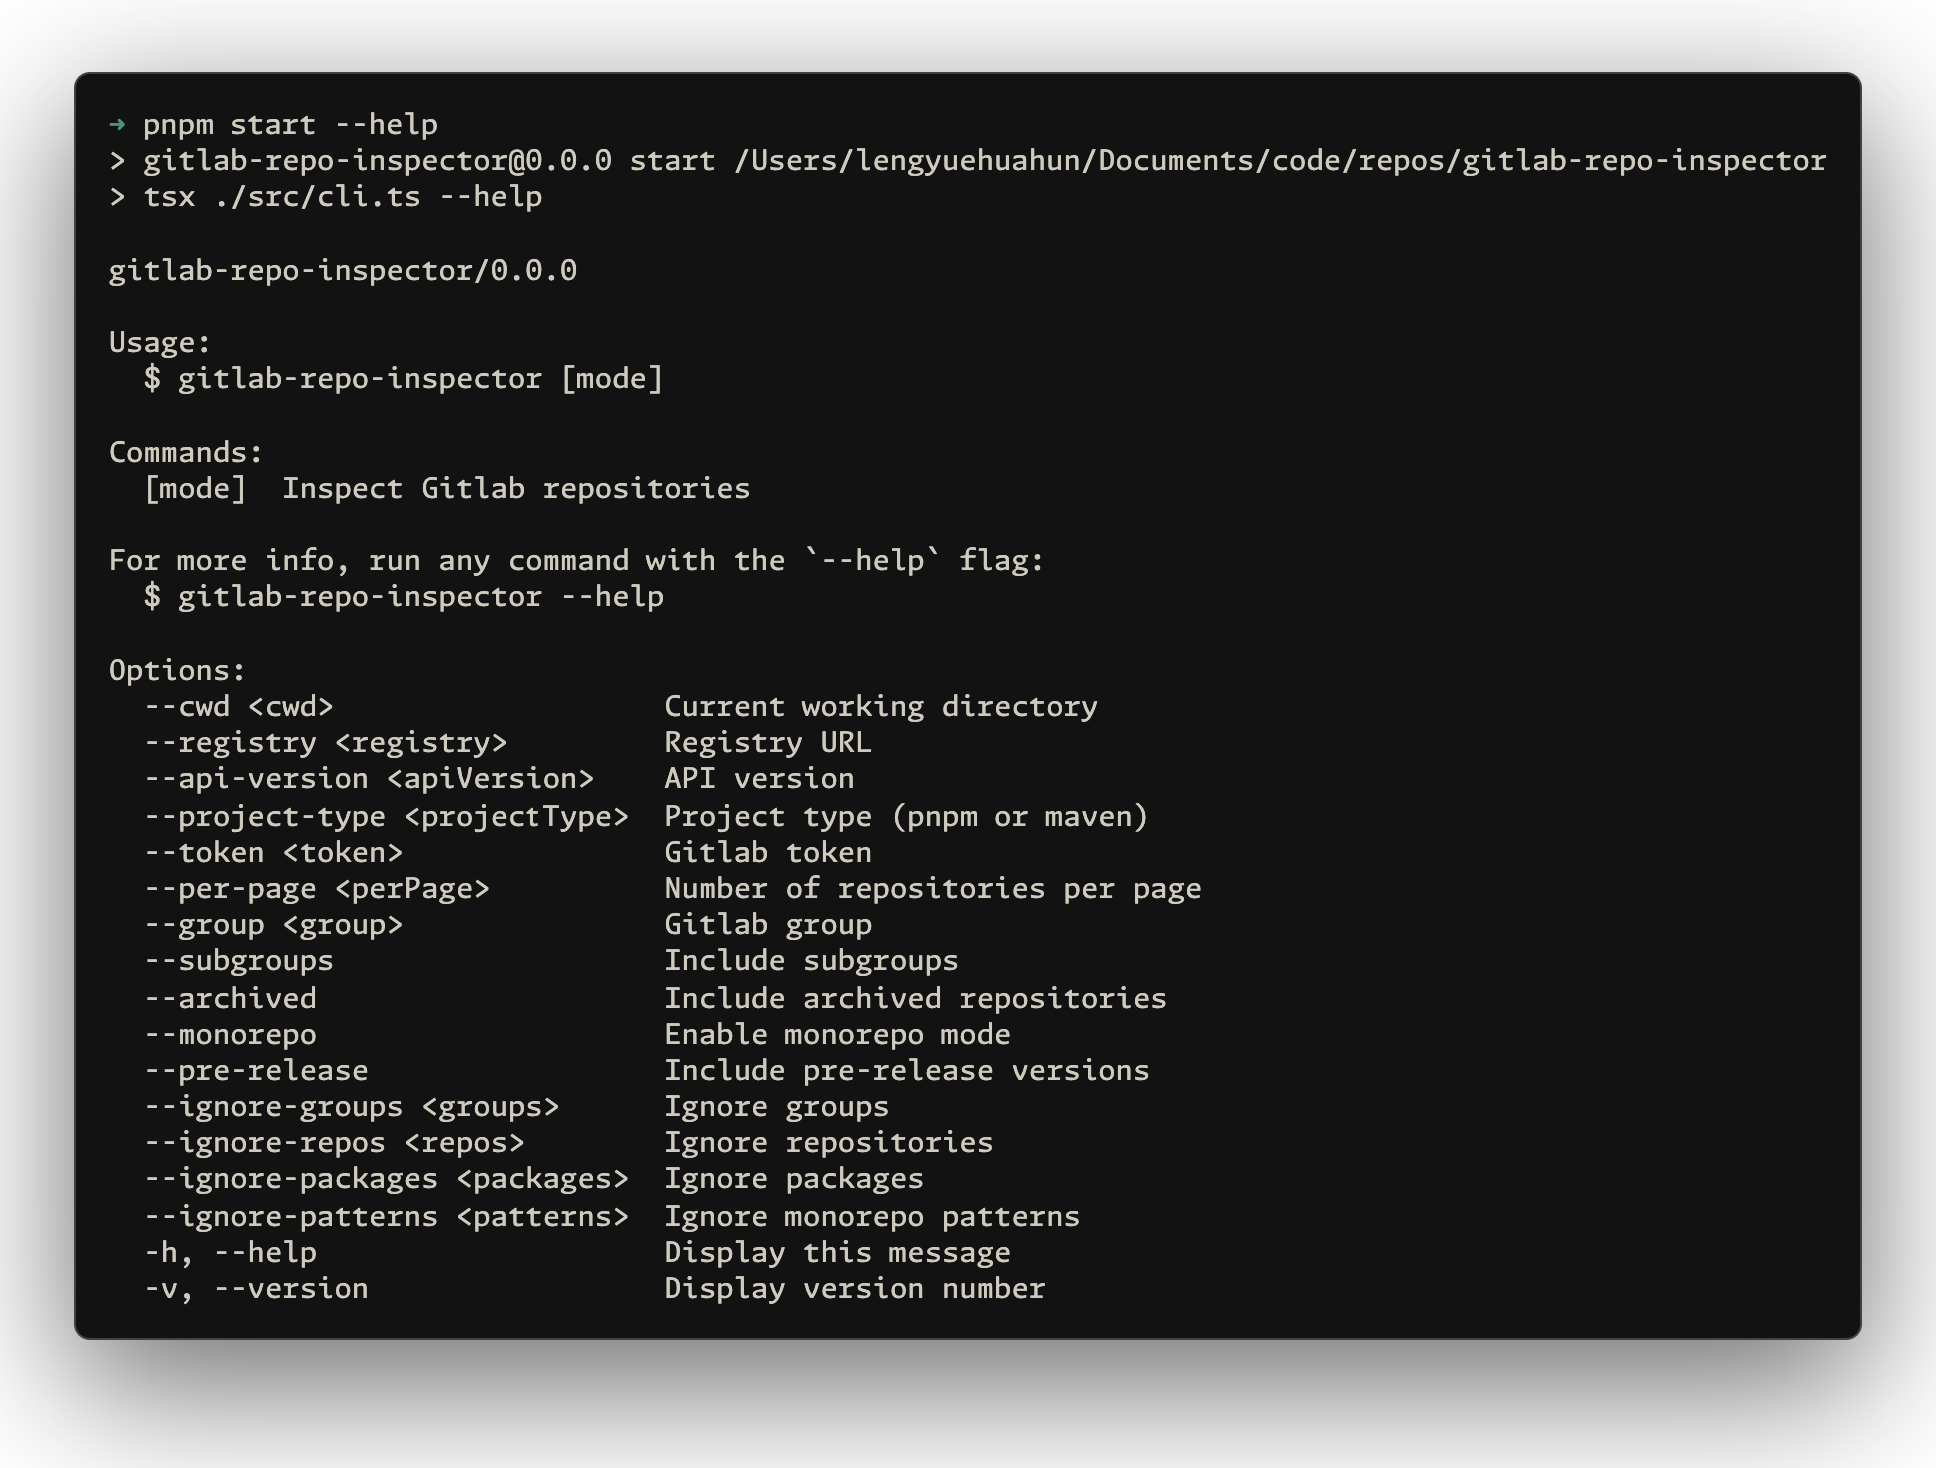
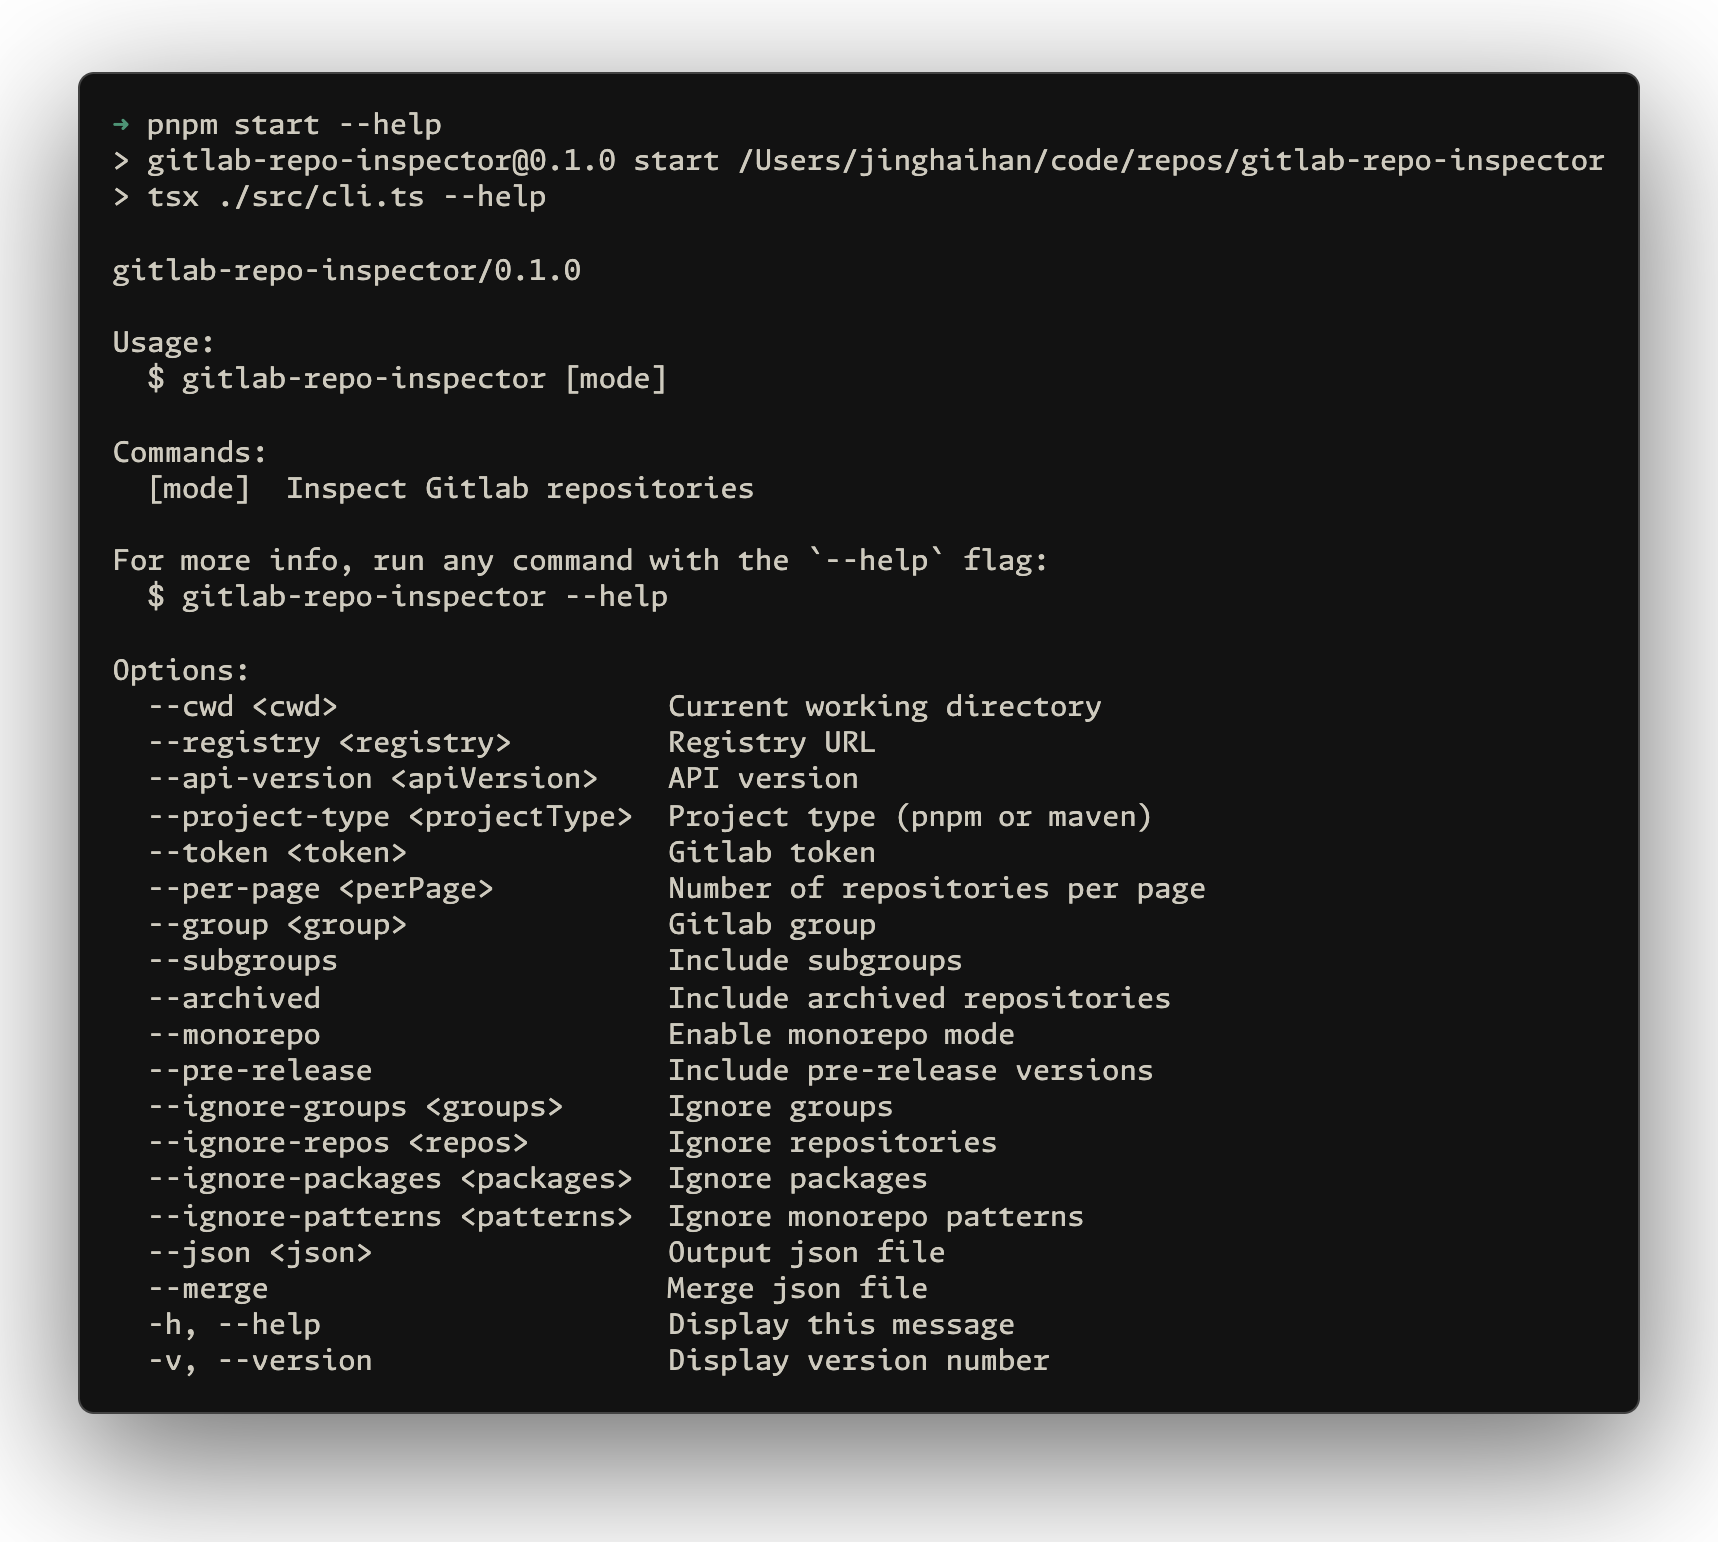
feat: project type inference

Changed region(s): [[0.0308, 0.0307, 0.9872, 0.9196], [0.5553, 0.3372, 0.5861, 0.3678]]

diff --git a/src/config.ts b/src/config.ts
@@ -13,7 +13,7 @@ function normalizeConfig(options: Partial<CommandOptions>) {
   return options
 }
 
-export async function resolveConfig(options: Partial<CommandOptions>): Promise<ConfigOptions> {
+export async function resolveCommonConfig(options: Partial<CommandOptions>): Promise<ConfigOptions> {
   const defaults = structuredClone(DEFAULT_CONFIG_OPTIONS)
   const config = normalizeConfig(options)
 
@@ -28,27 +28,7 @@ export async function resolveConfig(options: Partial<CommandOptions>): Promise<C
   const configOptions = generator.sources.length ? normalizeConfig(generator.config) : {}
   const merged = { ...defaults, ...configOptions, ...config }
 
-  if (!merged.token) {
-    const token = await p.text({
-      message: 'Enter your Gitlab token:',
-    })
-    if (p.isCancel(token) || !token) {
-      p.outro(c.red('Gitlab token is required'))
-      process.exit(1)
-    }
-    merged.token = token
-  }
-
-  if (!merged.group) {
-    const group = await p.text({
-      message: 'Enter your Gitlab group:',
-    })
-    if (p.isCancel(group) || !group) {
-      p.outro(c.red('Gitlab group is required'))
-      process.exit(1)
-    }
-    merged.group = group
-  }
+  merged.cwd = merged.cwd || process.cwd()
 
   // default to manifest mode
   if (!merged.mode) {
@@ -63,5 +43,37 @@ export async function resolveConfig(options: Partial<CommandOptions>): Promise<C
   if (typeof merged.ignorePackages === 'string')
     merged.ignorePackages = [merged.ignorePackages]
 
+  // normalize json file
+  if (!merged.json.endsWith('.json'))
+    merged.json = `${merged.json}.json`
+
   return merged as unknown as ConfigOptions
+}
+
+export async function resolveConfig(options: Partial<CommandOptions>): Promise<ConfigOptions> {
+  const commonConfig = await resolveCommonConfig(options)
+
+  if (!commonConfig.token) {
+    const token = await p.text({
+      message: 'Enter your Gitlab token:',
+    })
+    if (p.isCancel(token) || !token) {
+      p.outro(c.red('Gitlab token is required'))
+      process.exit(1)
+    }
+    commonConfig.token = token
+  }
+
+  if (!commonConfig.group) {
+    const group = await p.text({
+      message: 'Enter your Gitlab group:',
+    })
+    if (p.isCancel(group) || !group) {
+      p.outro(c.red('Gitlab group is required'))
+      process.exit(1)
+    }
+    commonConfig.group = group
+  }
+
+  return commonConfig as unknown as ConfigOptions
 }

diff --git a/src/inspector/inference.ts b/src/inspector/inference.ts
@@ -1,0 +1,43 @@
+import type { ConfigOptions, GitlabRepo, ProjectType, Spinner } from '../types'
+import c from 'ansis'
+import { getRepoTree } from '../gitlab'
+
+export async function inferenceProjectType(spinner: Spinner, options: ConfigOptions, repo: Pick<GitlabRepo, 'id' | 'name'>, tagOrBranch?: string): Promise<ProjectType | undefined> {
+  spinner.message(`Inferring project type for ${c.yellow(repo.name)}...`)
+  if (await isPnpmProject(options, repo, tagOrBranch))
+    return 'pnpm'
+  if (await isMavenProject(options, repo, tagOrBranch))
+    return 'maven'
+  if (await isNpmProject(options, repo, tagOrBranch))
+    return 'npm'
+  if (await isYarnProject(options, repo, tagOrBranch))
+    return 'yarn'
+}
+
+export async function isNpmProject(options: ConfigOptions, repo: Pick<GitlabRepo, 'id'>, tagOrBranch?: string) {
+  const tree = await getRepoTree(options, repo, '', tagOrBranch)
+  if (!tree)
+    return false
+  return !!tree.find(i => i.path === 'package-lock.json')
+}
+
+export async function isYarnProject(options: ConfigOptions, repo: Pick<GitlabRepo, 'id'>, tagOrBranch?: string) {
+  const tree = await getRepoTree(options, repo, '', tagOrBranch)
+  if (!tree)
+    return false
+  return !!tree.find(i => i.path === 'yarn.lock')
+}
+
+export async function isPnpmProject(options: ConfigOptions, repo: Pick<GitlabRepo, 'id'>, tagOrBranch?: string) {
+  const tree = await getRepoTree(options, repo, '', tagOrBranch)
+  if (!tree)
+    return false
+  return !!tree.find(i => i.path === 'pnpm-lock.yaml' || i.path === 'pnpm-workspace.yaml')
+}
+
+export async function isMavenProject(options: ConfigOptions, repo: Pick<GitlabRepo, 'id'>, tagOrBranch?: string) {
+  const tree = await getRepoTree(options, repo, '', tagOrBranch)
+  if (!tree)
+    return false
+  return !!tree.find(i => i.path === 'pom.xml')
+}

diff --git a/src/cli.ts b/src/cli.ts
@@ -1,10 +1,12 @@
 import type { CAC } from 'cac'
 import type { CommandOptions, RangeMode } from './types'
-import { writeFile } from 'node:fs/promises'
+import { existsSync } from 'node:fs'
+import { readFile, writeFile } from 'node:fs/promises'
 import process from 'node:process'
 import * as p from '@clack/prompts'
 import c from 'ansis'
 import { cac } from 'cac'
+import { join } from 'pathe'
 import { name, version } from '../package.json'
 import { resolveConfig } from './config'
 import { MODE_CHOICES } from './constants'
@@ -30,6 +32,8 @@ try {
     .option('--ignore-repos <repos>', 'Ignore repositories')
     .option('--ignore-packages <packages>', 'Ignore packages')
     .option('--ignore-patterns <patterns>', 'Ignore monorepo patterns')
+    .option('--json <json>', 'Output json file')
+    .option('--merge', 'Merge json file')
     .action(async (mode: RangeMode, options: CommandOptions) => {
       if (mode) {
         if (!MODE_CHOICES.includes(mode)) {
@@ -43,7 +47,17 @@ try {
       const config = await resolveConfig(options)
       const inspector = inspectors[config.mode]
       const result = await inspector(config)
-      await writeFile('gitlab-repo-inspector.json', JSON.stringify(result, null, 2))
+
+      const path = join(config.cwd, config.json)
+      if (config.merge) {
+        if (existsSync(path)) {
+          const content = await readFile(path, 'utf-8')
+          const data = JSON.parse(content)
+          result.push(...data)
+        }
+      }
+
+      await writeFile(path, JSON.stringify(result, null, 2))
       p.outro(`${c.green`Inspect completed, saved to ${c.yellow`gitlab-repo-inspector.json`}`}`)
     })
 

diff --git a/src/inspector/index.ts b/src/inspector/index.ts
@@ -4,6 +4,7 @@ import * as p from '@clack/prompts'
 import c from 'ansis'
 import { getRepos, getRepoTags } from '../gitlab'
 import { getLatestTag, normalizeRepo, normalizeVersion } from '../utils'
+import { inferenceProjectType } from './inference'
 import { inspectMavenMonorepo } from './maven'
 import { inspectPnpmMonorepo } from './pnpm'
 
@@ -53,12 +54,14 @@ export async function inspectRepo(options: ConfigOptions, repo: GitlabRepo) {
   spinner.start(`Inspecting ${c.yellow(repo.name)}...`)
 
   const latestTag = await inspectRepoTag(options, repo)
-  const setRepo = () => {
+  const setRepo = async () => {
+    const projectType = await inferenceProjectType(spinner, options, repo, latestTag?.name)
     data.push({
       name: repo.name,
       repo: normalizeRepo(repo.web_url),
       repoId: repo.id,
       webUrl: repo.web_url,
+      projectType,
       description: repo.description ?? '',
       tag: latestTag?.name,
       version: normalizeVersion(latestTag?.name),

diff --git a/src/utils.ts b/src/utils.ts
@@ -1,4 +1,7 @@
 import type { ConfigOptions, GitlabRepoTag } from './types'
+import process from 'node:process'
+import * as p from '@clack/prompts'
+import c from 'ansis'
 
 export function baseURL(options: ConfigOptions) {
   const { registry, apiVersion } = options
@@ -11,7 +14,13 @@ export async function retry<T>(fn: () => Promise<T>, maxAttempts: number = 10, d
     try {
       return await fn()
     }
-    catch {
+    catch (error: unknown) {
+      if (error instanceof Error) {
+        if (error.message.includes('401')) {
+          p.outro(`${c.red('401')}: please check your token or registry`)
+          process.exit(1)
+        }
+      }
       attempts++
       await new Promise(resolve => setTimeout(resolve, delay))
     }

diff --git a/src/types.ts b/src/types.ts
@@ -10,7 +10,7 @@ export interface Spinner {
   message: (msg?: string) => void
 }
 
-export type ProjectType = 'pnpm' | 'maven'
+export type ProjectType = 'pnpm' | 'maven' | 'npm' | 'yarn'
 
 export interface CommandOptions {
   mode?: RangeMode
@@ -29,6 +29,8 @@ export interface CommandOptions {
   ignoreRepos?: string[]
   ignorePackages?: string[]
   ignorePatterns?: string[]
+  json?: string
+  merge?: boolean
 }
 
 export type ConfigOptions = Required<CommandOptions>

diff --git a/src/constants.ts b/src/constants.ts
@@ -16,4 +16,6 @@ export const DEFAULT_CONFIG_OPTIONS = {
     'playground',
     'playground/*',
   ],
+  json: 'gitlab-repo-inspector.json',
+  merge: false,
 }
